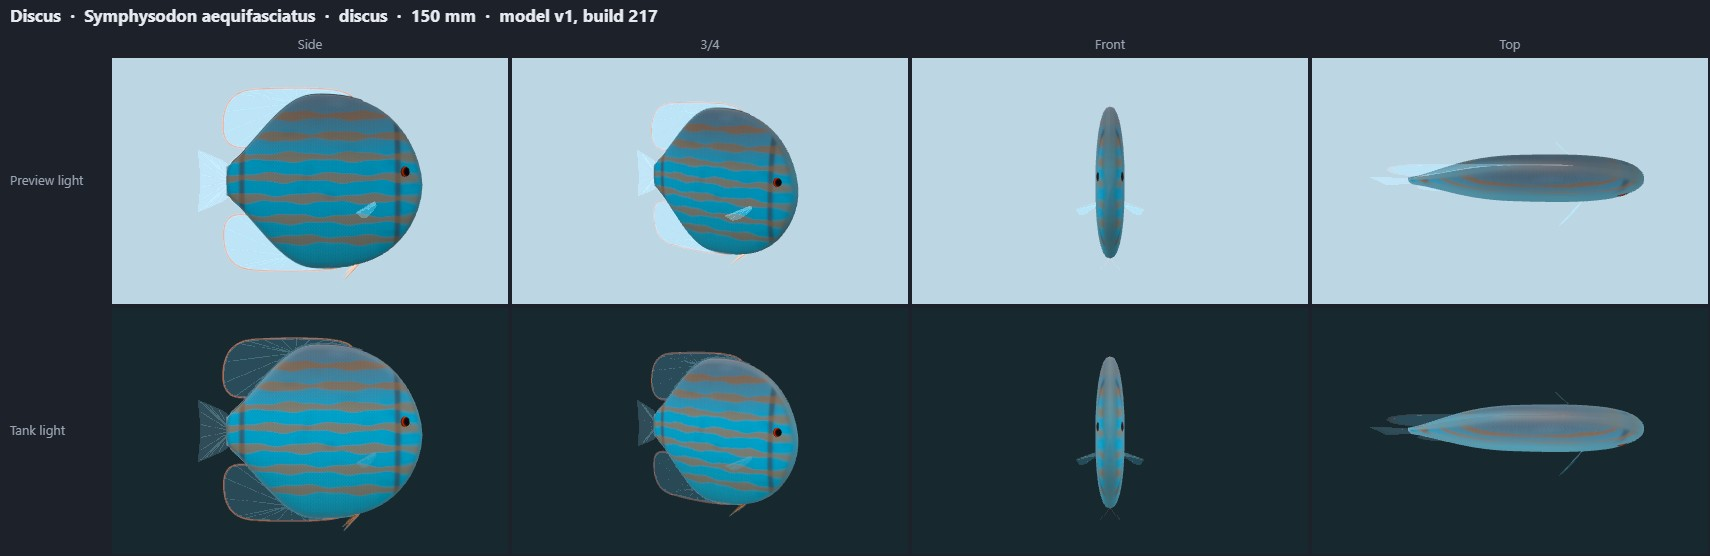
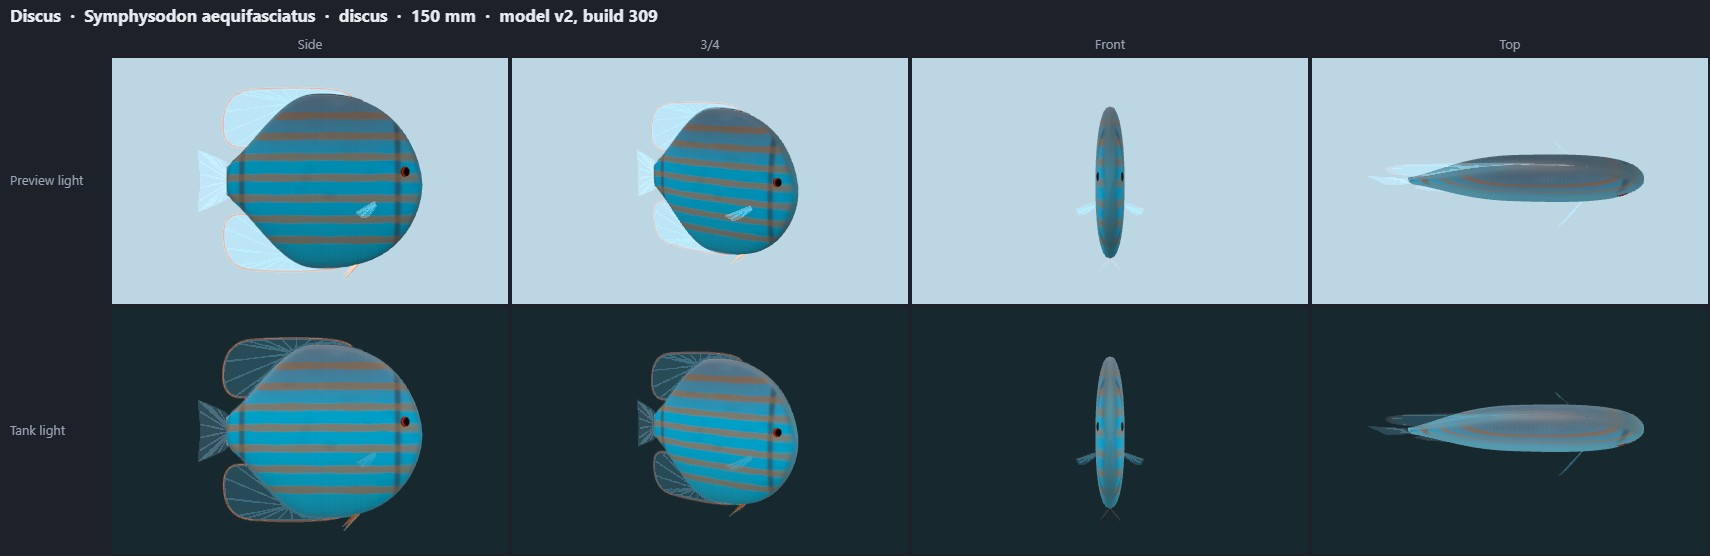
Model versions: honey gourami and discus v2 (R2/R3) in build 309; betta bowl example thumbnail re-shot with the draped betta

diff --git a/public/model-sheets/index.html b/public/model-sheets/index.html
@@ -10,7 +10,7 @@ figure { margin: 8px 0 14px; padding: 8px; background: var(--panel); border-radi
 img { display: block; max-width: 100%; height: auto }
 </style></head><body>
 <h1>Model sheets</h1>
-<p>Pre-rendered review images of every TankLook animal model (no WebGL needed): 68 models, 57 species, written at build 297.
+<p>Pre-rendered review images of every TankLook animal model (no WebGL needed): 68 models, 57 species, written at build 309.
 Each sheet shows the Side, 3/4, Front, Top views; top row in the plain preview light, bottom row at true size in the default tank's LED light and water.
 Click a sheet for the full-size image (1710 × 556 px). Interactive version: <a href="../review.html">review.html</a>.</p>
 <h2>Freshwater fish</h2>
@@ -37,7 +37,7 @@ Click a sheet for the full-size image (1710 × 556 px). Interactive version: <a 
 <figure id="betta-f"><figcaption><b>Betta ♀</b> · <i>Betta splendens</i> · betta~f · 55 mm · model v1 (build 217, 2026-10-14)</figcaption><a href="betta-f.jpg"><img src="betta-f.jpg" width="1710" height="556" loading="lazy" alt="Betta ♀ (Betta splendens), model v1: Side, 3/4, Front, Top views, preview light (top row) and tank light (bottom row)"></a></figure>
 <figure id="dwarfgourami"><figcaption><b>Dwarf gourami ♂</b> · <i>Trichogaster lalius</i> · dwarfgourami · 80 mm · model v1 (build 217, 2026-10-14)</figcaption><a href="dwarfgourami.jpg"><img src="dwarfgourami.jpg" width="1710" height="556" loading="lazy" alt="Dwarf gourami ♂ (Trichogaster lalius), model v1: Side, 3/4, Front, Top views, preview light (top row) and tank light (bottom row)"></a></figure>
 <figure id="dwarfgourami-f"><figcaption><b>Dwarf gourami ♀</b> · <i>Trichogaster lalius</i> · dwarfgourami~f · 65 mm · model v1 (build 217, 2026-10-14)</figcaption><a href="dwarfgourami-f.jpg"><img src="dwarfgourami-f.jpg" width="1710" height="556" loading="lazy" alt="Dwarf gourami ♀ (Trichogaster lalius), model v1: Side, 3/4, Front, Top views, preview light (top row) and tank light (bottom row)"></a></figure>
-<figure id="honeygourami"><figcaption><b>Honey gourami ♂</b> · <i>Trichogaster chuna</i> · honeygourami · 45 mm · model v1 (build 217, 2026-10-14)</figcaption><a href="honeygourami.jpg"><img src="honeygourami.jpg" width="1710" height="556" loading="lazy" alt="Honey gourami ♂ (Trichogaster chuna), model v1: Side, 3/4, Front, Top views, preview light (top row) and tank light (bottom row)"></a></figure>
+<figure id="honeygourami"><figcaption><b>Honey gourami ♂</b> · <i>Trichogaster chuna</i> · honeygourami · 45 mm · model v2 (build 309, 2026-10-14)</figcaption><a href="honeygourami.jpg"><img src="honeygourami.jpg" width="1710" height="556" loading="lazy" alt="Honey gourami ♂ (Trichogaster chuna), model v2: Side, 3/4, Front, Top views, preview light (top row) and tank light (bottom row)"></a></figure>
 <figure id="honeygourami-f"><figcaption><b>Honey gourami ♀</b> · <i>Trichogaster chuna</i> · honeygourami~f · 50 mm · model v1 (build 217, 2026-10-14)</figcaption><a href="honeygourami-f.jpg"><img src="honeygourami-f.jpg" width="1710" height="556" loading="lazy" alt="Honey gourami ♀ (Trichogaster chuna), model v1: Side, 3/4, Front, Top views, preview light (top row) and tank light (bottom row)"></a></figure>
 <figure id="gourami"><figcaption><b>Pearl gourami ♂</b> · <i>Trichopodus leerii</i> · gourami · 120 mm · model v1 (build 217, 2026-10-14)</figcaption><a href="gourami.jpg"><img src="gourami.jpg" width="1710" height="556" loading="lazy" alt="Pearl gourami ♂ (Trichopodus leerii), model v1: Side, 3/4, Front, Top views, preview light (top row) and tank light (bottom row)"></a></figure>
 <figure id="gourami-f"><figcaption><b>Pearl gourami ♀</b> · <i>Trichopodus leerii</i> · gourami~f · 110 mm · model v1 (build 217, 2026-10-14)</figcaption><a href="gourami-f.jpg"><img src="gourami-f.jpg" width="1710" height="556" loading="lazy" alt="Pearl gourami ♀ (Trichopodus leerii), model v1: Side, 3/4, Front, Top views, preview light (top row) and tank light (bottom row)"></a></figure>
@@ -47,7 +47,7 @@ Click a sheet for the full-size image (1710 × 556 px). Interactive version: <a 
 <figure id="kribensis"><figcaption><b>Kribensis ♂</b> · <i>Pelvicachromis pulcher</i> · kribensis · 90 mm · model v1 (build 217, 2026-10-14)</figcaption><a href="kribensis.jpg"><img src="kribensis.jpg" width="1710" height="556" loading="lazy" alt="Kribensis ♂ (Pelvicachromis pulcher), model v1: Side, 3/4, Front, Top views, preview light (top row) and tank light (bottom row)"></a></figure>
 <figure id="kribensis-f"><figcaption><b>Kribensis ♀</b> · <i>Pelvicachromis pulcher</i> · kribensis~f · 75 mm · model v1 (build 217, 2026-10-14)</figcaption><a href="kribensis-f.jpg"><img src="kribensis-f.jpg" width="1710" height="556" loading="lazy" alt="Kribensis ♀ (Pelvicachromis pulcher), model v1: Side, 3/4, Front, Top views, preview light (top row) and tank light (bottom row)"></a></figure>
 <figure id="angel"><figcaption><b>Angelfish</b> · <i>Pterophyllum scalare</i> · angel · 150 mm · model v1 (build 217, 2026-10-14)</figcaption><a href="angel.jpg"><img src="angel.jpg" width="1710" height="556" loading="lazy" alt="Angelfish (Pterophyllum scalare), model v1: Side, 3/4, Front, Top views, preview light (top row) and tank light (bottom row)"></a></figure>
-<figure id="discus"><figcaption><b>Discus</b> · <i>Symphysodon aequifasciatus</i> · discus · 150 mm · model v1 (build 217, 2026-10-14)</figcaption><a href="discus.jpg"><img src="discus.jpg" width="1710" height="556" loading="lazy" alt="Discus (Symphysodon aequifasciatus), model v1: Side, 3/4, Front, Top views, preview light (top row) and tank light (bottom row)"></a></figure>
+<figure id="discus"><figcaption><b>Discus</b> · <i>Symphysodon aequifasciatus</i> · discus · 150 mm · model v2 (build 309, 2026-10-14)</figcaption><a href="discus.jpg"><img src="discus.jpg" width="1710" height="556" loading="lazy" alt="Discus (Symphysodon aequifasciatus), model v2: Side, 3/4, Front, Top views, preview light (top row) and tank light (bottom row)"></a></figure>
 <figure id="oscar"><figcaption><b>Oscar</b> · <i>Astronotus ocellatus</i> · oscar · 300 mm · model v1 (build 217, 2026-10-14)</figcaption><a href="oscar.jpg"><img src="oscar.jpg" width="1710" height="556" loading="lazy" alt="Oscar (Astronotus ocellatus), model v1: Side, 3/4, Front, Top views, preview light (top row) and tank light (bottom row)"></a></figure>
 <figure id="goldfish"><figcaption><b>Fancy goldfish</b> · <i>Carassius auratus</i> · goldfish · 160 mm · model v1 (build 217, 2026-10-14)</figcaption><a href="goldfish.jpg"><img src="goldfish.jpg" width="1710" height="556" loading="lazy" alt="Fancy goldfish (Carassius auratus), model v1: Side, 3/4, Front, Top views, preview light (top row) and tank light (bottom row)"></a></figure>
 <figure id="bronzecory"><figcaption><b>Bronze corydoras</b> · <i>Corydoras aeneus</i> · bronzecory · 65 mm · model v1 (build 217, 2026-10-14)</figcaption><a href="bronzecory.jpg"><img src="bronzecory.jpg" width="1710" height="556" loading="lazy" alt="Bronze corydoras (Corydoras aeneus), model v1: Side, 3/4, Front, Top views, preview light (top row) and tank light (bottom row)"></a></figure>
